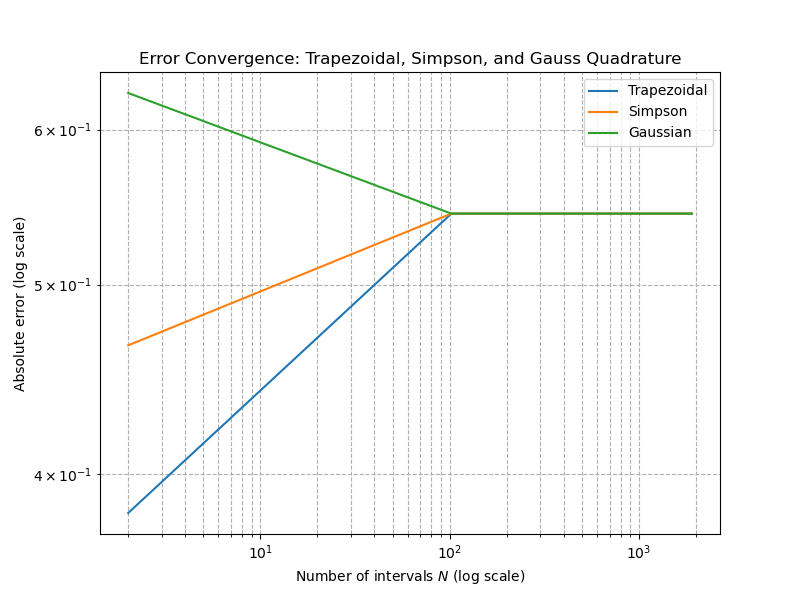
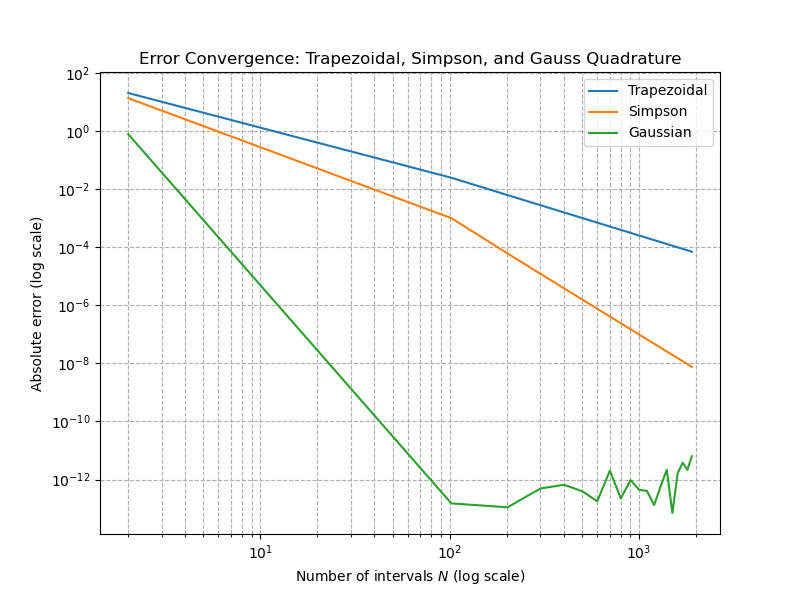
made another plot and another python to plot bad errors as well as answered the questions on the canvas

diff --git a/assignment2.py b/assignment2.py
@@ -1,0 +1,73 @@
+import numpy as np
+import matplotlib.pyplot as plt
+from scipy.integrate import quad
+import pandas as pd
+
+
+def f(x):
+    return np.sin(100*x)/x
+
+exact_integral, _ = quad(f, 0.01, 1)
+
+def trapezoidal_rule(f, a, b, n):
+    h = (b - a) / n
+    total = f(a) + f(b)
+    for i in range(1, n):
+        total += 2 * f(a + i * h)
+    return (h / 2) * total
+
+def simpson_rule(f, a, b, n):
+    if n % 2 != 0:
+      raise ValueError("n must be even for Simpson's rule, received n = {}".format(n))
+    h = (b - a) / n
+    x = np.linspace(a, b, n + 1)
+    fx = f(x)
+    result = (h / 3) * (fx[0] + 2 * fx[2:n:2].sum() + 4 * fx[1:n:2].sum() + fx[n])
+    return result
+
+def gauss_legendre_quad(f, a, b, n):
+    nodes, weights = np.polynomial.legendre.leggauss(n)  # roots of Legendre polynomial and weights :contentReference[oaicite:0]{index=0}
+
+    # Map nodes from [-1,1] to [a, b]
+    x_mapped = 0.5 * (b - a) * nodes + 0.5 * (b + a)
+
+    # Apply weights and function evaluations
+    integral = 0.5 * (b - a) * np.dot(weights, f(x_mapped))
+    return integral
+
+# Integration settings
+a, b = 0.01, 1.0
+I_exact = exact_integral
+
+# List of N values to test
+N_values = np.array(np.arange(2,2000, 100))  # 4, 8, 16, ..., 512
+
+errors_trap = []
+errors_simp = []
+errors_gauss = []
+
+for N in N_values:
+    I_trap = trapezoidal_rule(f, a, b, N)
+    I_simp = simpson_rule(f, a, b, N)
+    I_gauss = gauss_legendre_quad(f, a, b, N)
+
+    errors_trap.append(abs(I_trap - I_exact))
+    errors_simp.append(abs(I_simp - I_exact))
+    errors_gauss.append(abs(I_gauss - I_exact))
+
+eps_floor = 1e-16
+errors_gauss = np.maximum(errors_gauss, eps_floor)
+# Plotting
+plt.figure(figsize=(8, 6))
+plt.loglog(N_values, errors_trap, label='Trapezoidal')
+plt.loglog(N_values, errors_simp, label='Simpson')
+plt.loglog(N_values, errors_gauss, label = 'Gaussian', nonpositive='clip')
+
+
+plt.xlabel('Number of intervals $N$ (log scale)')
+plt.ylabel('Absolute error (log scale)')
+plt.title('Error Convergence: Trapezoidal, Simpson, and Gauss Quadrature')
+plt.legend()
+plt.grid(True, which='both', ls='--')
+plt.savefig('BadErrors.png')
+plt.show()

diff --git a/README.md b/README.md
@@ -44,4 +44,7 @@ The answer to the fits are:
 Estimated order (alpha) = -1.999, coefficient C ≈ 5.249e-02
 Estimated order (alpha) = -4.022, coefficient C ≈ 3.824e-03
 
+Part 2 answers:
 
+The reason that my function is not working is because it changes rapidly. 
+To fix this we can take parts of the problem and partition them, we can also use integrators that are meant for oscillations. 
